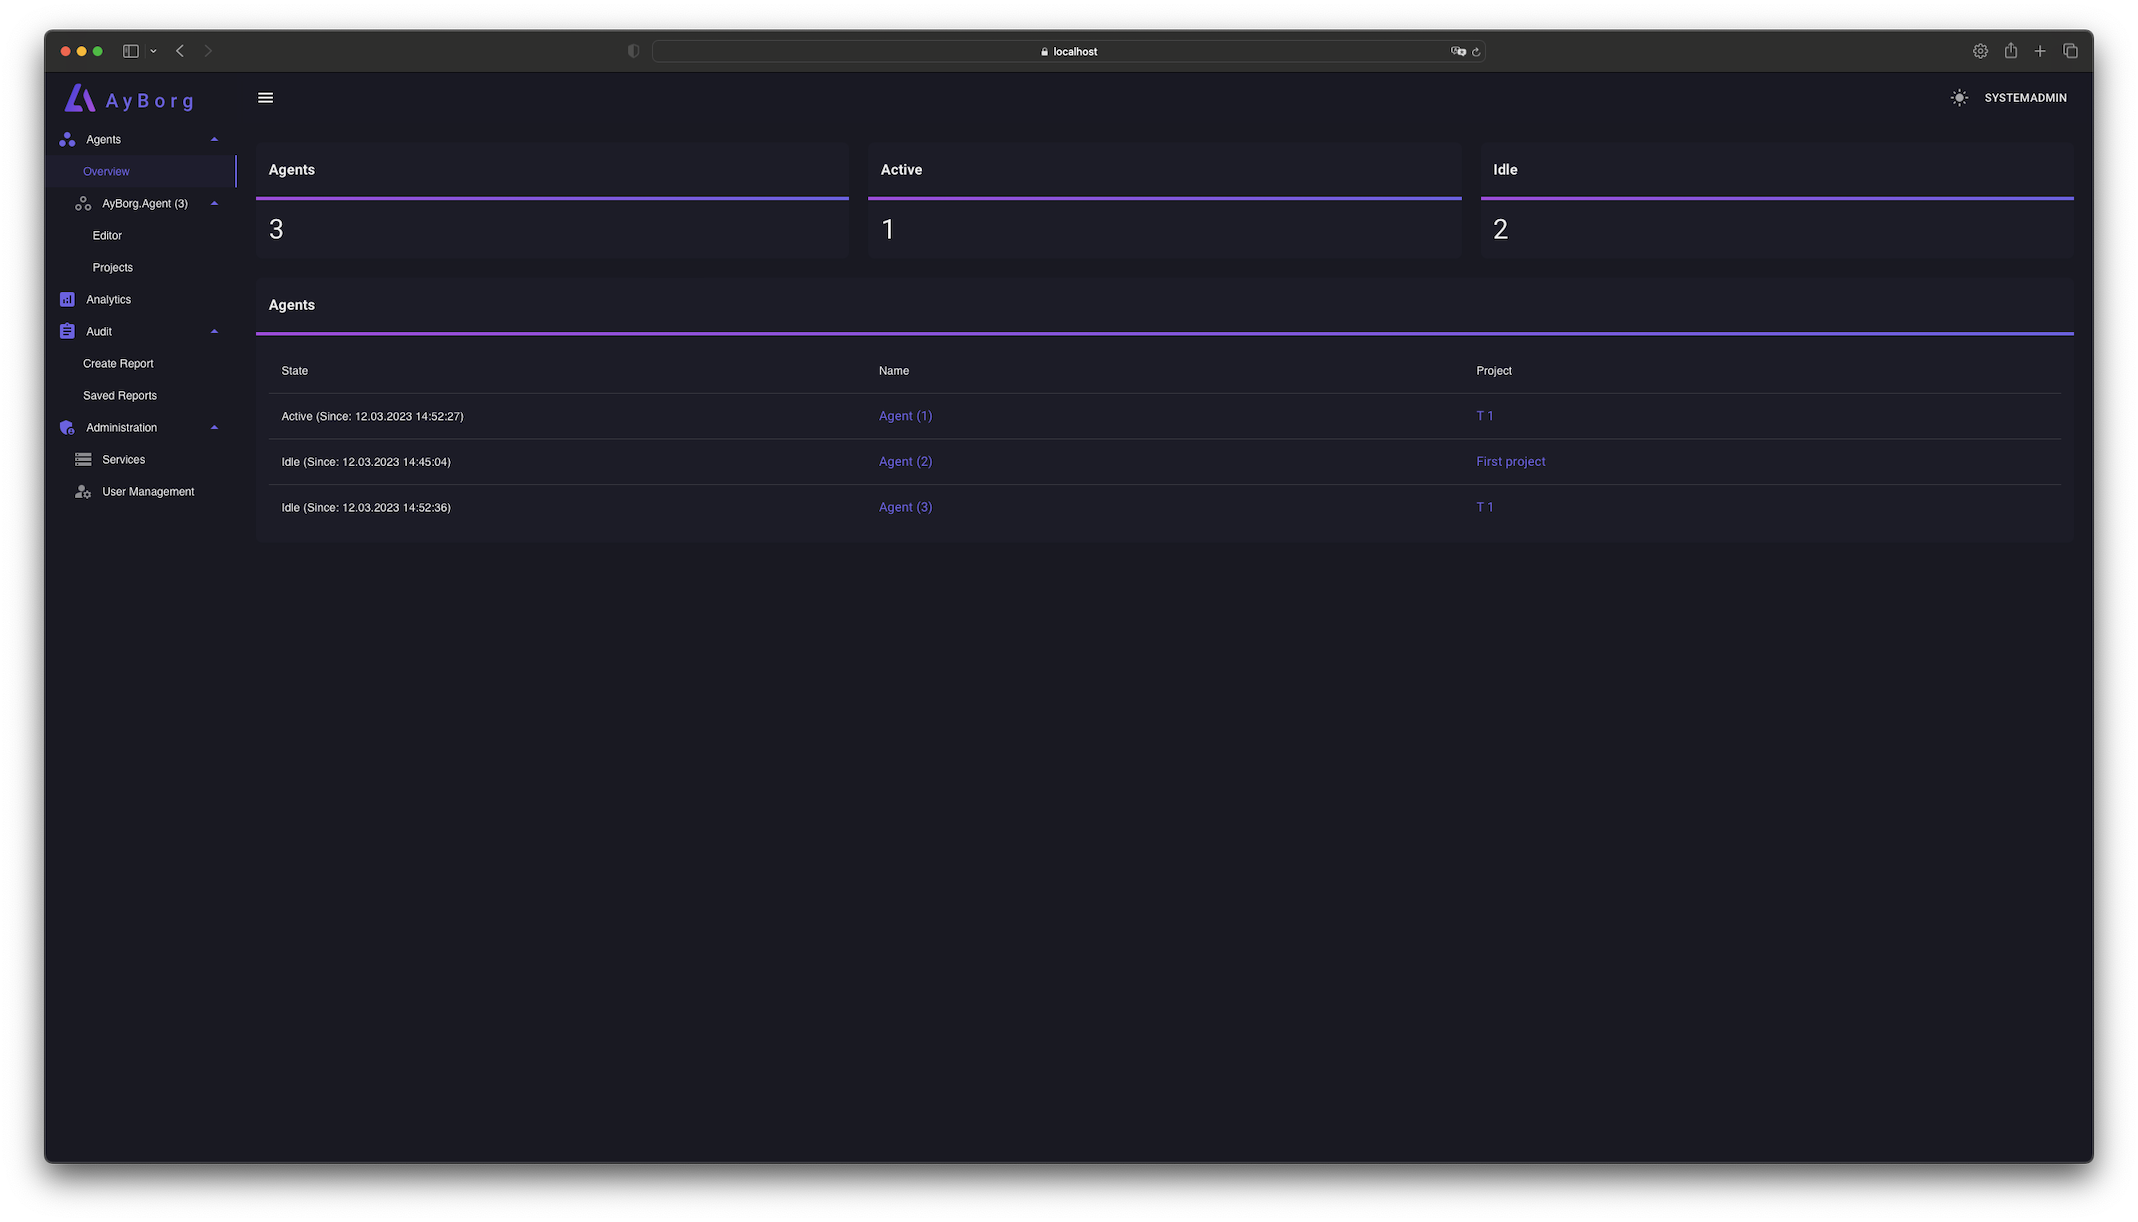
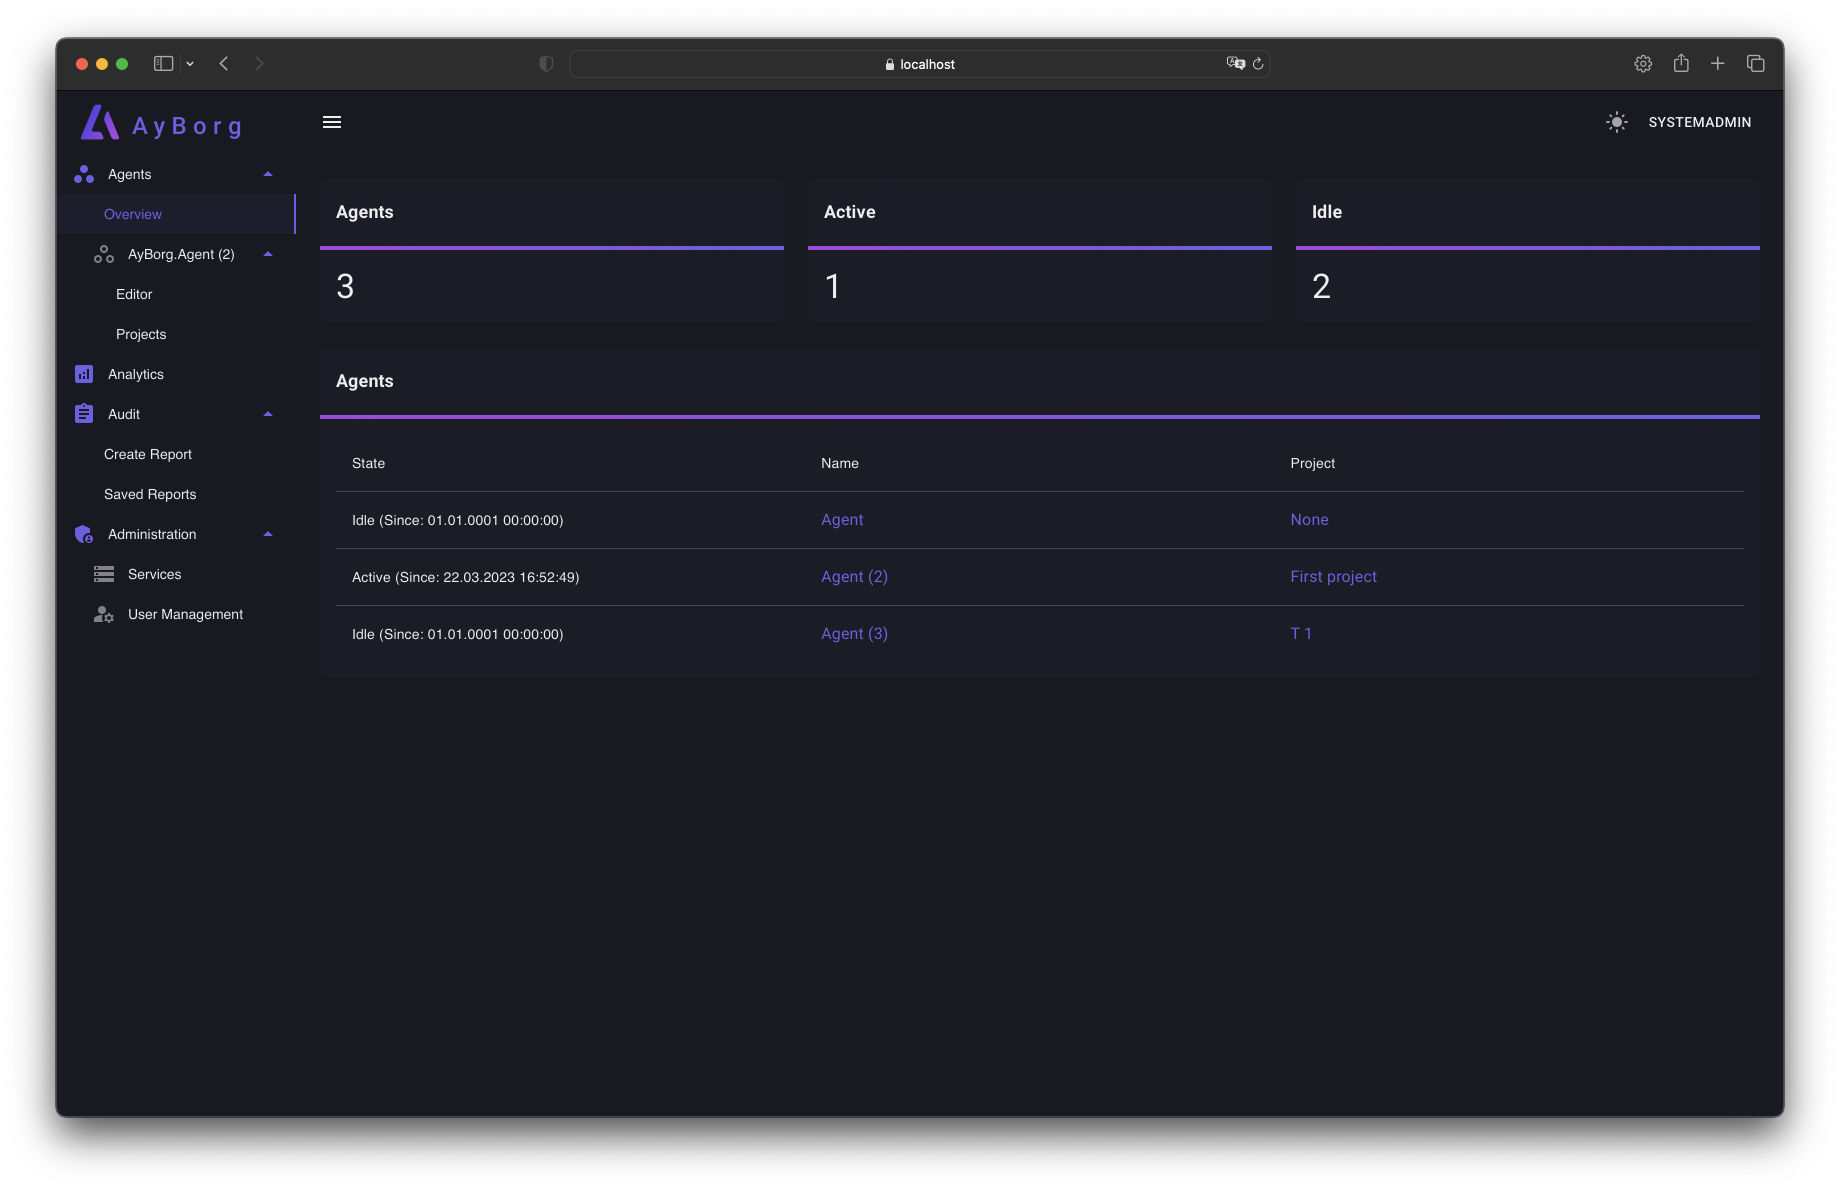
Added more images for documentation

diff --git a/README.md b/README.md
@@ -29,13 +29,15 @@ Our user-friendly editor makes it a breeze to program your own workflows using s
 
 Experience unparalleled flexibility in your workflow! Work with as many agents as you want and distribute them across different systems. Thanks to seamless communication via the MQTT protocol, your creativity knows no bounds. Whether it's simple or complex scenarios, our agents enable you to perfectly realize your ideas!
 
-![AgentOverview](docs/img/agent-overview.png)
+![Agent overview dark](docs/img/agent-overview.png)
+![Agent overview light](docs/img/agent-overview-alt.png)
 
 ### Project overview
 
 The project overview lays out all the projects and their current status. That way, you can see in a jiffy which projects have been given the green light for production.
 
-![ProjectOverview](docs/img/agent-projects.png)
+![Project overview dark](docs/img/agent-projects.png)
+![Project overview light](docs/img/agent-projects-alt.png)
 
 ## Analytics
 
@@ -50,15 +52,22 @@ In industries such as **medicine**, **pharmaceuticals**, and **food**, it is bec
 
 ### Create new audit report
 
-![AuditChangesets](docs/img/audit-changesets.png)
+![Audit changesets dark](docs/img/audit-changesets.png)
+![Audit changesets light](docs/img/audit-changesets-alt.png)
 
 ### Audit changes (diff)
 
-![AuditDiff](docs/img/audit-diff.png)
+![Audit diff dark](docs/img/audit-diff.png)
+![Audit diff light](docs/img/audit-diff-alt.png)
 
 ### Save your reports
 
-![AuditSavedReports](docs/img/audit-saved-reports.png)
+AyBorg provides the ability to store and access **audit reports** at any time. By storing these reports, administrators and auditors can review past events and ensure that the system has been functioning properly.
+
+The ability to store and access audit reports offers a valuable way to monitor the system and **ensure compliance with requirements and standards**. Additionally, this can aid in troubleshooting by making it easier to identify the exact timing and cause of a problem.
+
+![Audit saved reports dark](docs/img/audit-saved-reports.png)
+![Audit saved reports light](docs/img/audit-saved-reports-alt.png)
 
 ## Administration
 
@@ -68,6 +77,8 @@ In industries such as **medicine**, **pharmaceuticals**, and **food**, it is bec
 ![Service overview](docs/img/admin-service-overview-alt.png)
 
 ### Usermanagement
+
+AyBorg has a **role-based user management system** that allows for precise control and management of access rights and functionalities within the application. With this approach, users can be organized into different roles, each with distinct permissions and access rights to various areas of the application.
 
 ![Usermanagement dark](docs/img/admin-usermanagement.png)
 ![Usermanagement light](docs/img/admin-usermanagement-alt.png)
